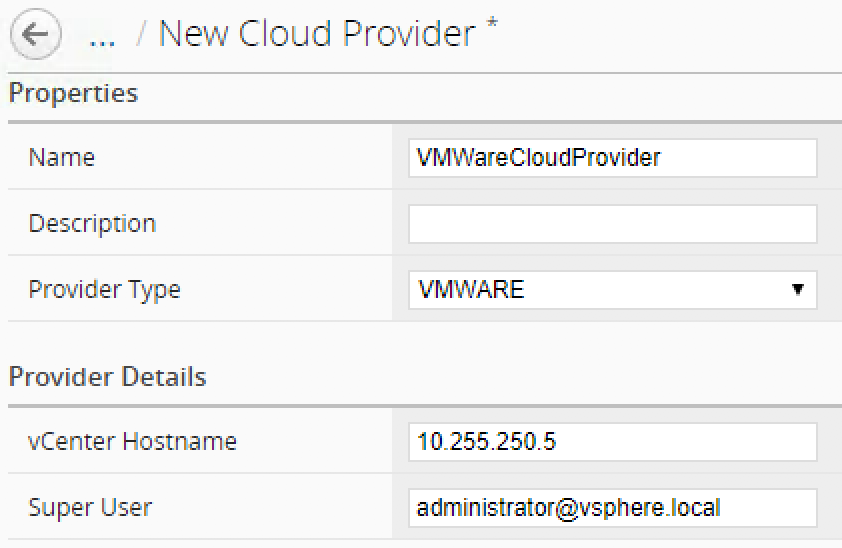
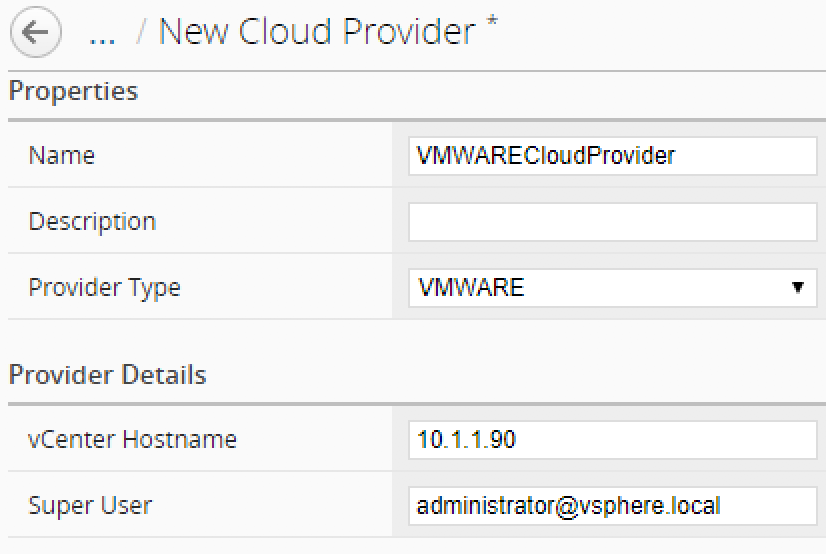
Class2/Module1/Lab3 creation

diff --git a/docs/source/class2/module1/lab3.rst b/docs/source/class2/module1/lab3.rst
@@ -1,6 +1,22 @@
 Lab 1.3: Deploy your Service Scaling Group
 ------------------------------------------
 
+Before setting up our SSG and deploy it, do the following:
+
+* Open **2** putty session with your BIG-IQ.
+* On the first SSH session, run the following command:
+
+  ``tail -f /var/log/restjavad.0.log | grep SSGClass2``
+
+* On the second SSH session, run the following command:
+
+  ``tail -f /var/log/orchestrator.log | grep SSGClass2``
+
+Keep those sessions open until the end of the class.
+
+Service Scaling Group Setup
+***************************
+
 To deploy your ``Service Scaling Group`` (SSG), go to *Applications* >
 *Service Scaling Groups* and click the *Create* button
 
@@ -9,3 +25,60 @@ To deploy your ``Service Scaling Group`` (SSG), go to *Applications* >
     :scale: 50%
 
 |
+
+Service Scaling Group Properties:
+
+* Name : SSGClass2
+* Cloud Environment: select *SSGClass2VMWAreEnvironment*
+* Minimum Device(s) Required: 2
+* Desired Number of Device(s): 2
+* Maximum Device(s) Required : 3
+* Maximum Application(s) Allowed: 3
+
+.. image:: ../pictures/module1/img_module1_lab3_2.png
+    :align: center
+    :scale: 50%
+
+|
+
+Let's review those parameters.
+
+* Minimum Device(s) Required : this specify how many BIG-IP VE(s) should always
+  be available at any time
+* Desired Number of Device(s): this specify the ideal number of BIG-IP VE(s)
+  should be available when no scale-out scenario is triggered
+* Maximum Device(s) Required: this specify the maximum number of BIG-IP VE(s)
+  that can be created in this SSG. The purpose is to make sure that under some
+  scenarios (like being DDOS), we won't add constantly new devices
+* Maximum Application(s) Allowed: This specify how many applications we will
+  be able to deploy on top of this SSG. The idea is to ensure that if we use a
+  Cloud edition VE, we won't try to go over the license limit
+
+
+Load-Balancer:
+
+* Devices: Select the already discovered BIG-IP *ip-10-1-1-8.us-west2.compute*
+  Òthat has 10.1.1.8 as an IP Address
+
+.. warning:: Add a screenshot of the Tier1 BIG-IP
+
+The device(s) we select here, we behave as our Tier1 devices. They will load
+balance the traffic aimed at this SSG.
+
+Scaling Rules:
+
+* Scale-Out: Select *Throughput(In)* Greater than 5 (Mbps)
+* Scale-In: Select *Troughput(In)* Less than 2 (Mbps)
+
+
+
+Here we define our threshold to scale-in/scale-out. Here it will be based on the
+**aggregated** throughput they receive. The ``cooldown period`` mentions an
+interval where we don't do any scaling. The idea is to see how the situation
+evolves after a scale-in scale-out event.
+
+.. warning:: We NEED TO MAKE sure that the throughput scale changed from Gb to
+  Mb
+
+Click on *Save & Close* and your SSG will start being provisioned.
+Go to the next lab to see how to troubleshoot/monitor your SSG Deployment.

diff --git a/docs/source/class2/module1/lab2.rst b/docs/source/class2/module1/lab2.rst
@@ -20,7 +20,7 @@ Click on the *Create* button:
 
 * Name: VMWareCloudProvider
 * Provider Type: select *VMWARE*
-* vCenter Hostname: 10.255.250.5
+* vCenter Hostname: 10.1.1.90
 * Super User: administrator@vsphere.local
 
 .. image:: ../pictures/module1/img_module1_lab2_2.png
